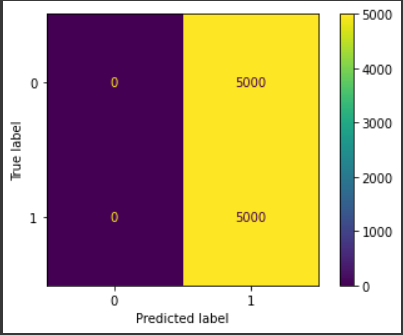
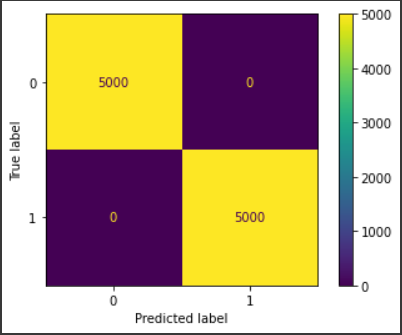
Update Test 6 results

diff --git a/models/debugging/1D-CNN Binary Classification/Signal_HIDDEN_in_strain_data/Signal_NOT_WHITENED/Test 6/README.md b/models/debugging/1D-CNN Binary Classification/Signal_HIDDEN_in_strain_data/Signal_NOT_WHITENED/Test 6/README.md
@@ -63,22 +63,23 @@ _________________________________________________________________
 ```
 
 # Trial Hyperparameters :
+"5-F CV" in the last column represents 5-Fold Cross Validation. 
 ```
-| Trial No. | Normalized? | Amplitude Re-Scaled? | Optimizer | lr   | Batch Size | Epochs |
-| --------- | ----------- | -------------------- | --------- | ---- | ---------- | ------ |
-| 1         | No          | Yes (By 1e19)        | Adam      | 1e-3 | 128        | 5      |
-| --------- | ----------- | -------------------- | --------- | ---- | ---------- | ------ |
-| 2         | No          | Yes (By 1e18)        | Adam      | 1e-3 | 128        | 5      |
-| --------- | ----------- | -------------------- | --------- | ---- | ---------- | ------ |
+| Trial No. | Normalized? | Amplitude Re-Scaled? | Optimizer | lr   | Batch Size | Epochs | 5-F CV |
+| --------- | ----------- | -------------------- | --------- | ---- | ---------- | ------ | ------ |
+| 1         | No          | Yes (By 1e19)        | Adam      | 1e-3 | 128        | 5      | No     |
+| --------- | ----------- | -------------------- | --------- | ---- | ---------- | ------ | ------ |
+| 2         | No          | Yes (By 1e19)        | Adam      | 1e-3 | 128        | 3      | Yes    |
+| --------- | ----------- | -------------------- | --------- | ---- | ---------- | ------ | ------ |
 ```
 
 # Trial Results :
 ```
 | Trial No. | Accuracy | Precision | Recall | F1 Score |
 | --------- | -------- | --------- | ------ | -------- |
-| 1         | 49.61%   | 0.5       | 1      | 0.667    |
+| 1         | 100%     | 1         | 1      | 1        |
 | --------- | -------- | --------- | ------ | -------- |
-| 2         | 49.60%   | 0         | 0      | -        |
+| 2         | 79.9%    | 0.6       | 0.6    | 0.6      |
 | --------- | -------- | --------- | ------ | -------- |
 ```
 
